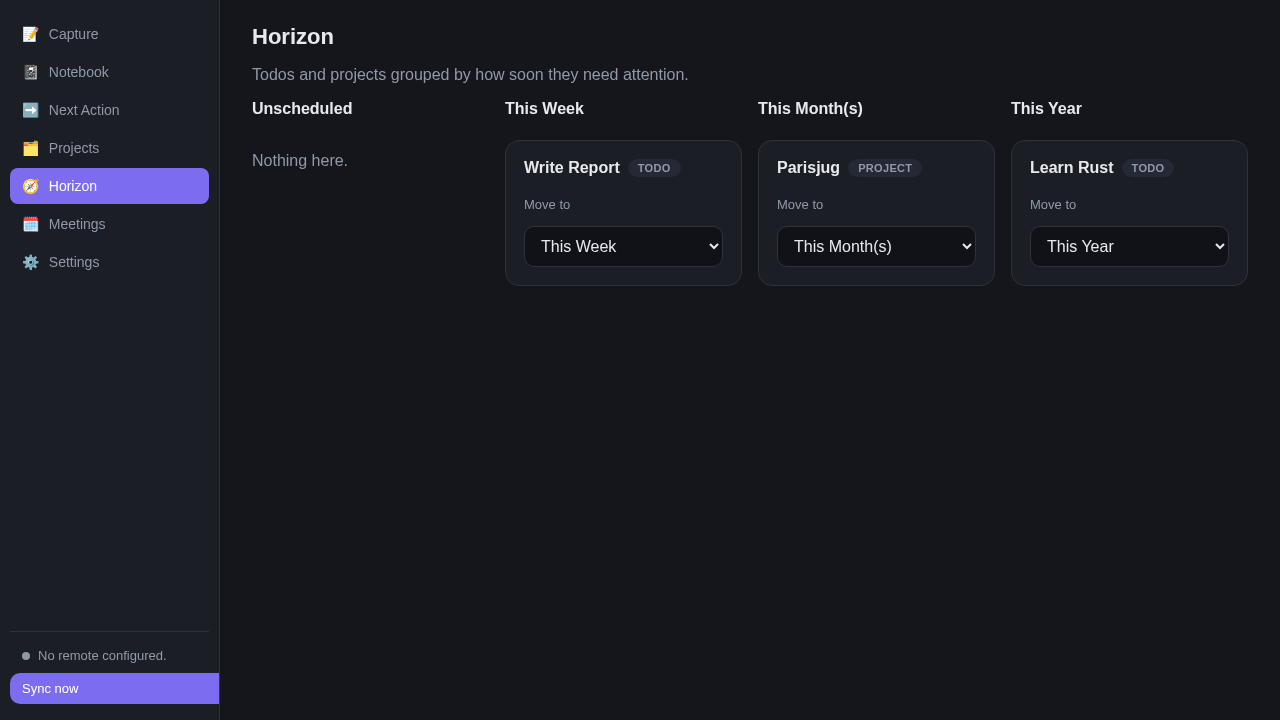
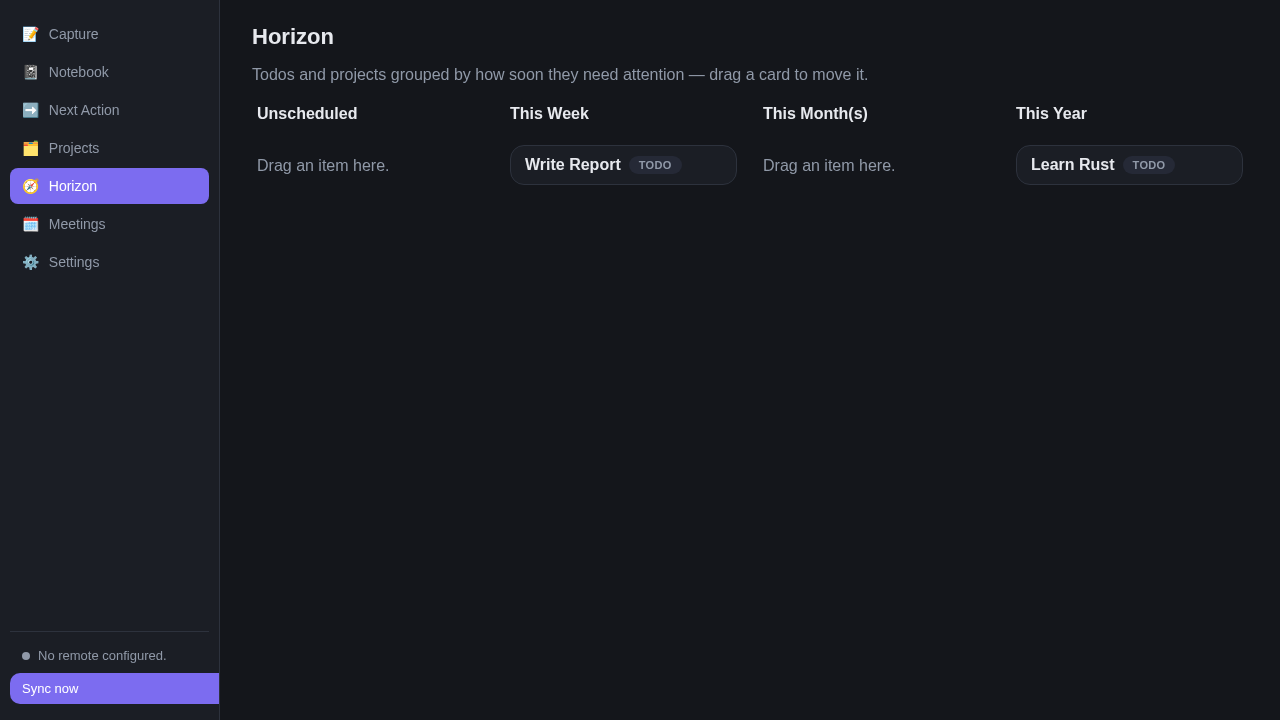
feat: drag-and-drop to move Horizon items instead of a per-card select
The per-card "Move to" dropdown (one <select> per item, always visible)
took up too much space for what's meant to be a compact grid — product
feedback after testing.

- app/src/screens.ts: horizon cards are now plain draggable
  (draggable="true", data-horizon-drag) elements with just their name
  and kind badge; columns are drop targets (data-horizon-drop). Removed
  the select/label markup entirely.
- app/src/main.ts: bindHorizonScreen rewritten around dragstart/dragend/
  dragover/dragleave/drop instead of a select's change event. The write
  itself is unchanged — still the same read-modify-write of the
  `horizon:` frontmatter field via the generic file endpoints. Dropping
  on "Unscheduled" now also works (writes horizon: ""), which the old
  select UI never exposed as a use case but naturally falls out of
  treating every column as a symmetric drop target.
- app/src/style.css: grab/dragging/drag-over affordances; horizon cards
  get tighter padding now that there's no select to make room for.

Re-verified in Docker/Playwright: no <select> elements remain on the
screen, and a drag from Unscheduled to This Year updates the note's
horizon field and re-renders it in the new column (confirmed by
reading the file back).

diff --git a/app/src/screens.ts b/app/src/screens.ts
@@ -217,34 +217,23 @@ export function renderHorizonScreen(state?: HorizonScreenState): string {
         ? items
             .map(
               (item) => `
-                <article class="card horizon-card">
+                <article
+                  class="card horizon-card"
+                  draggable="${viewState.isBusy ? 'false' : 'true'}"
+                  data-horizon-drag="${escapeHtmlAttribute(item.path)}"
+                >
                   <div class="horizon-card-name">
                     ${escapeHtml(item.name)}
                     <span class="badge badge-default">${HORIZON_KIND_LABELS[item.kind]}</span>
                   </div>
-                  <label class="field-label" for="horizon-move-${escapeHtmlAttribute(item.path)}">Move to</label>
-                  <select
-                    class="text-input"
-                    id="horizon-move-${escapeHtmlAttribute(item.path)}"
-                    data-horizon-move="${escapeHtmlAttribute(item.path)}"
-                    ${viewState.isBusy ? 'disabled' : ''}
-                  >
-                    ${item.horizon === '' ? '<option value="" selected disabled>Choose a horizon…</option>' : ''}
-                    ${HORIZON_COLUMNS.filter((option) => option.value !== '')
-                      .map(
-                        (option) =>
-                          `<option value="${option.value}" ${option.value === item.horizon ? 'selected' : ''}>${option.label}</option>`
-                      )
-                      .join('')}
-                  </select>
                 </article>
               `
             )
             .join('')
-        : '<p class="empty-state">Nothing here.</p>';
+        : '<p class="empty-state">Drag an item here.</p>';
 
     return `
-      <div class="horizon-column">
+      <div class="horizon-column" data-horizon-drop="${column.value}">
         <h2 class="section-title">${column.label}</h2>
         ${cardsHtml}
       </div>
@@ -253,7 +242,7 @@ export function renderHorizonScreen(state?: HorizonScreenState): string {
 
   return `
     <h1 class="title">${TITLES.horizon}</h1>
-    <p class="placeholder">Todos and projects grouped by how soon they need attention.</p>
+    <p class="placeholder">Todos and projects grouped by how soon they need attention — drag a card to move it.</p>
     ${
       viewState.isBusy
         ? `<p class="busy-message"><span class="spinner" aria-hidden="true"></span>${escapeHtml(viewState.busyLabel)}</p>`

diff --git a/app/src/main.ts b/app/src/main.ts
@@ -1162,15 +1162,44 @@ function bindProjectsScreen(): void {
 
 // Moving an item is a plain read-modify-write on its `horizon:` frontmatter field via the
 // existing generic file endpoints (#26) — same reuse pattern as project task toggling and
-// Capture's attach flow, not a dedicated mutation endpoint.
+// Capture's attach flow, not a dedicated mutation endpoint. Drag-and-drop (rather than a per-card
+// "Move to" select) keeps each card down to just its name and badge — a dropdown for every card
+// took up too much space for what's otherwise a compact grid.
 function bindHorizonScreen(): void {
-  main.querySelectorAll<HTMLSelectElement>('[data-horizon-move]').forEach((select) => {
-    select.addEventListener('change', async (event) => {
-      const path = select.dataset.horizonMove;
+  main.querySelectorAll<HTMLElement>('[data-horizon-drag]').forEach((card) => {
+    card.addEventListener('dragstart', (event) => {
+      const path = card.dataset.horizonDrag;
+      if (!path || !event.dataTransfer) {
+        return;
+      }
+      event.dataTransfer.setData('text/plain', path);
+      event.dataTransfer.effectAllowed = 'move';
+      card.classList.add('dragging');
+    });
+    card.addEventListener('dragend', () => {
+      card.classList.remove('dragging');
+    });
+  });
+
+  main.querySelectorAll<HTMLElement>('[data-horizon-drop]').forEach((column) => {
+    column.addEventListener('dragover', (event) => {
+      event.preventDefault();
+      if (event.dataTransfer) {
+        event.dataTransfer.dropEffect = 'move';
+      }
+      column.classList.add('drag-over');
+    });
+    column.addEventListener('dragleave', () => {
+      column.classList.remove('drag-over');
+    });
+    column.addEventListener('drop', async (event) => {
+      event.preventDefault();
+      column.classList.remove('drag-over');
+      const path = event.dataTransfer?.getData('text/plain');
       if (!path) {
         return;
       }
-      const horizon = (event.target as HTMLSelectElement).value as HorizonValue;
+      const horizon = (column.dataset.horizonDrop ?? '') as HorizonValue | '';
 
       await runRepositoryAction('Moving item…', async () => {
         const content = await readFile(path);

diff --git a/app/src/style.css b/app/src/style.css
@@ -811,12 +811,24 @@ main {
   display: flex;
   flex-direction: column;
   gap: 12px;
+  padding: 4px;
+  border-radius: 12px;
+  border: 1px dashed transparent;
+  transition: border-color 0.1s ease, background-color 0.1s ease;
+}
+
+.horizon-column.drag-over {
+  border-color: var(--accent);
+  background: rgba(124, 108, 240, 0.08);
 }
 
 .horizon-card {
-  display: flex;
-  flex-direction: column;
-  gap: 8px;
+  padding: 10px 14px;
+  cursor: grab;
+}
+
+.horizon-card.dragging {
+  opacity: 0.5;
 }
 
 .horizon-card-name {
